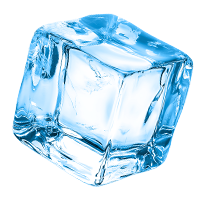
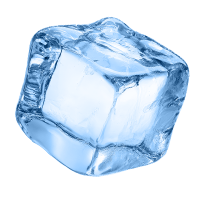
update coconut water background

diff --git a/css/responsive.css b/css/responsive.css
@@ -76,6 +76,10 @@
         width: 180px;
         top: -2%;
     }
+
+    .product-coconut-bg {
+        clip-path: url(#smoothBottomCurve-sm);
+    }
 }
 
 @media only screen and (max-width: 767px) {
@@ -132,6 +136,10 @@
         top: -1%;
         right: 120px;
     }
+
+    .cocoanut-water-bg-ice {
+        bottom: -50px;
+    }
 }
 
 @media only screen and (max-width: 575px) {
@@ -154,6 +162,10 @@
 
     .highlight-wrap {
         height: 200px;
+    }
+
+    .cocoanut-water-bg-ice {
+        bottom: -10px;
     }
 }
 

diff --git a/css/style.css b/css/style.css
@@ -769,8 +769,17 @@ iframe {
     width: 100%;
     height: 100%;
     overflow: hidden;
-    background: url('../img/coconut/bcorchard_coconut_water_bg_1.jpg') center/cover no-repeat;
+    background: url('../img/coconut/bcorchard_coconut_water_bg.jpg') center/cover no-repeat;
     clip-path: url(#smoothBottomCurve);
+    position: relative;
+}
+
+.cocoanut-water-bg-ice {
+    position: absolute;
+    bottom: -100px;
+    left: 0;
+    width: 100%;
+    z-index: -1;
 }
 
 .product-coconut-img,

diff --git a/coconut-water.php b/coconut-water.php
@@ -25,17 +25,13 @@
         height: 12px !important;
         background-color: #2a2a2a !important;
     }
-
-    /*.product-coconut-bg{*/
-    /*    clip-path: url(#bottomCurve);*/
-    /*}*/
 </style>
 
 <link href="https://cdn.jsdelivr.net/npm/aos@2.3.4/dist/aos.css" rel="stylesheet">
 <link rel="stylesheet" href="https://cdn.jsdelivr.net/npm/swiper@11/swiper-bundle.min.css" />
 
 <body>
-    <div class="product-coconut-bg overflow-x-hidden react">
+    <div class="product-coconut-bg overflow-x-hidden">
         <div class="container section-padding-sm">
             <div class="row">
                 <div class="product-coconut-img-wrap col-lg-8 position-relative order-1 order-lg-2">
@@ -53,13 +49,18 @@
                 </div>
             </div>
         </div>
+        <div class="cocoanut-water-bg-ice">
+            <img src="img/coconut/bcorchard_coconut_water_bg_ice.png" alt="BC Orchard Coconut Water" class="w-100">
+        </div>
     </div>
     <!-- SVG for U-shaped clip-path -->
     <svg width="0" height="0" xmlns="http://www.w3.org/2000/svg">
         <defs>
             <clipPath id="smoothBottomCurve" clipPathUnits="objectBoundingBox">
-                <!-- <path d="M0,0 H1 V0.85 C0.8,1 0.2,1 0,0.85 Z" /> -->
                 <path d="M0,0 H1 V1 C1,1 0.5,0.85 0,1 Z" />
+            </clipPath>
+            <clipPath id="smoothBottomCurve-sm" clipPathUnits="objectBoundingBox">
+                <path d="M0,0 H1 V1 C1,1 0.5,0.95 0,1 Z" />
             </clipPath>
         </defs>
     </svg>
